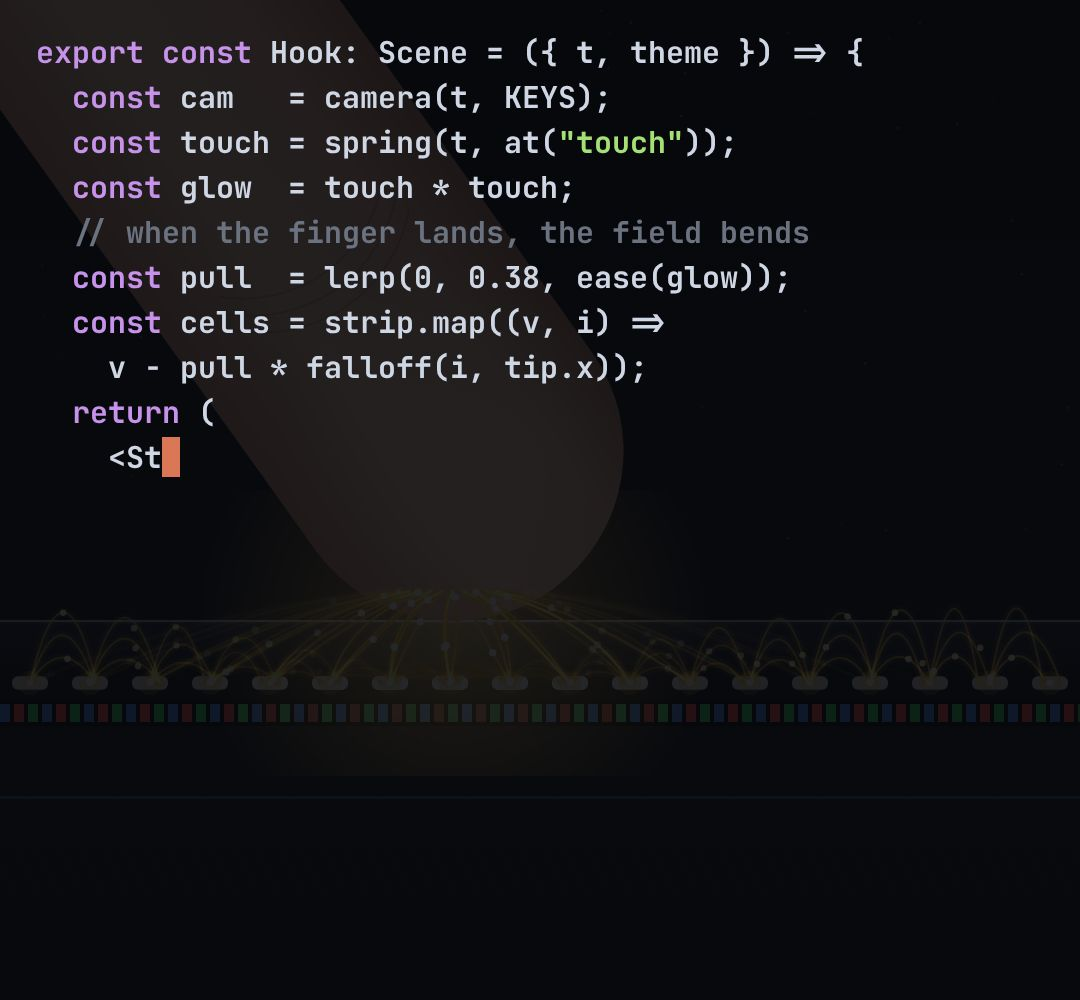
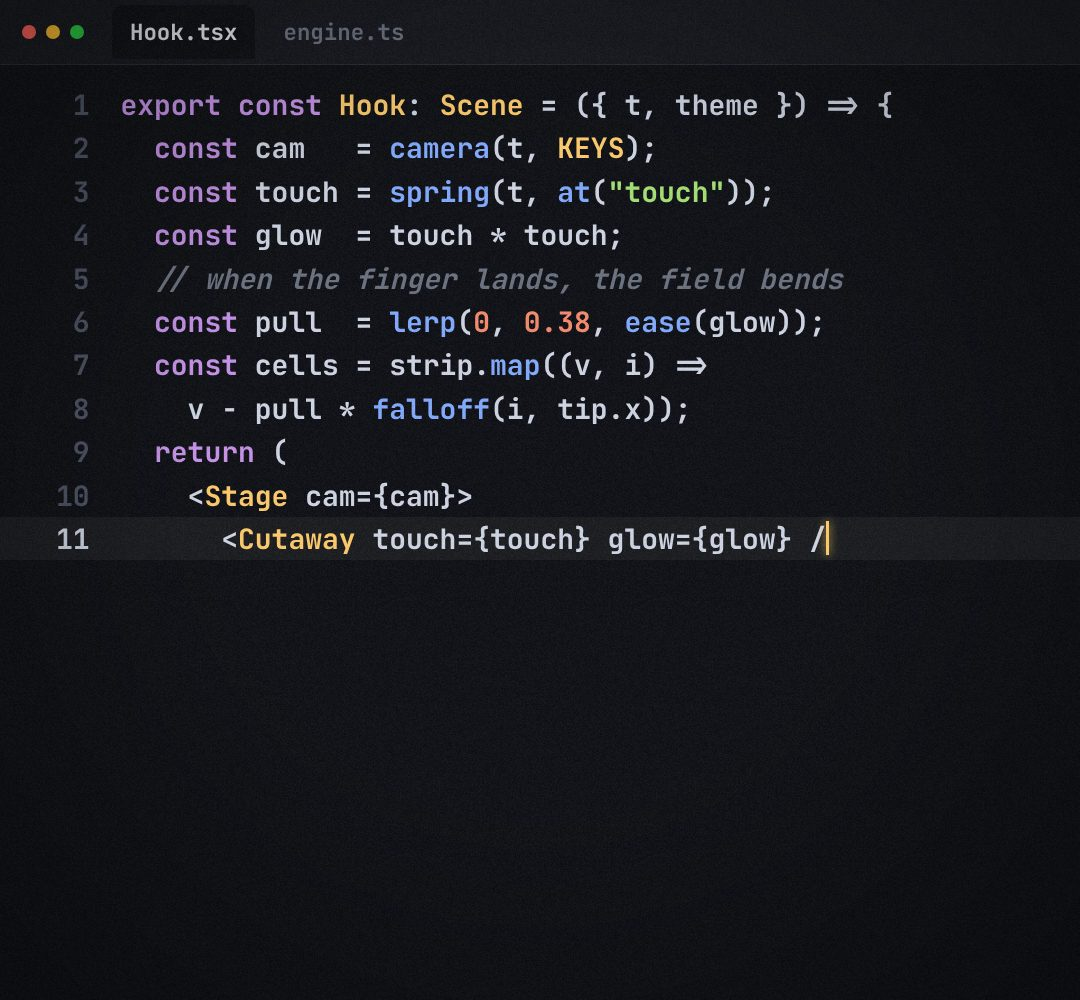
Keyframes group E advanced pass: editor code-reveal, anamorphic wipe, 3D turn, steel blades, real film strip, 3D clip stack
Claude-Session: https://claude.ai/code/session_01WnDKVy29mSHbKqgBAaKPCy

Changed region(s): [[0.0306, 0.0, 0.825, 0.558], [0.5806, 0.031, 0.7944, 0.062]]

diff --git a/.claude/skills/speedy-explainer-reel/keyframes/film-strip/block.js b/.claude/skills/speedy-explainer-reel/keyframes/film-strip/block.js
@@ -1,15 +1,23 @@
-/* film-strip: a long video shown as a strip of frames running under a playhead; the best moments light up with a score ("the AI picks the moments").
- * opts:  { n: frames, frame: [w, h], images: [urls] (optional), picks: [frame indexes], scores: [numbers], y }
- * state: { show: 0..1, scroll: 0..1 (how far the strip has run), lift: 0..1 (the picked frames rise out of the strip) } · api: frame(t, state) */
+/* film-strip: a long video as a real strip of film: dark celluloid with sprocket holes, frame numbers and grain, holding REAL frames (default: our own reel frames), curving away in perspective as it runs under a glowing playhead. The best moments get bracketed, light up with a score and lift out of the strip.
+ * opts:  { n: frames, images: [urls] (else frames from keyframes/_assets/frames.jpg), picks: [frame indexes], scores: [numbers], y, frame: [w, h] }
+ * state: { show: 0..1, scroll: 0..1 (how far the strip has run), lift: 0..1 (the picked frames rise out) } · api: frame(t, state) */
 KF.define("film-strip", (host, o) => {
-  const { ctx, w, h, clear } = KF.canvas(host), n = o.n || 16, fw = (o.frame || [300, 170])[0], fh = (o.frame || [300, 170])[1], gap = 16, y = o.y ?? h * 0.42, picks = o.picks || [3, 6, 9, 12], sc = o.scores || [92, 88, 95, 81];
-  const imgs = (o.images || []).map(u => { const im = new Image(); im.src = u; return im; }); if (imgs.length) window.__ready = Promise.all([window.__ready, ...imgs.map(im => im.decode().catch(() => {}))]);
-  const pal = ["#5b2a1c", "#1c3a5b", "#3a1c5b", "#1c5b3a", "#5b4a1c"];
+  const { ctx, w, h, clear } = KF.canvas(host), n = o.n || 26, fw = (o.frame || [250, 444])[0], fh = (o.frame || [250, 444])[1], gap = 26, y0 = o.y ?? h * 0.42, picks = o.picks || [5, 9, 13, 16], sc = o.scores || [92, 88, 95, 81];
+  const imgs = (o.images || []).map(KF.img), sheet = imgs.length ? null : KF.img(KF.asset("frames.jpg"));
+  const drawFrame = (i, x, y, ww, hh) => { if (imgs.length) { const im = imgs[i % imgs.length]; if (im.naturalWidth) ctx.drawImage(im, x, y, ww, hh); return; } if (!sheet.naturalWidth) return; const k = (i * 5 + 3) % 96, cw = sheet.naturalWidth / 12, ch = sheet.naturalHeight / 8; ctx.drawImage(sheet, (k % 12) * cw, Math.floor(k / 12) * ch, cw, ch, x, y, ww, hh); };
   return { frame(t, s = {}) { clear(); const a = KF.clamp(s.show ?? 1), scr = KF.ease.inOut(KF.clamp(s.scroll ?? 0)) * ((n - 1) * (fw + gap)), lift = KF.clamp(s.lift ?? 0), px = w / 2; ctx.globalAlpha = a;
-      ctx.fillStyle = "#101216"; ctx.fillRect(0, y - 34, w, fh + 68); ctx.fillStyle = "#2a2d35"; for (let x = -((scr * 1) % 40); x < w; x += 40) { KF.rr(ctx, x, y - 26, 22, 14, 4); ctx.fill(); KF.rr(ctx, x, y + fh + 12, 22, 14, 4); ctx.fill(); }
-      for (let i = 0; i < n; i++) { const x = px - fw / 2 + i * (fw + gap) - scr, k = picks.indexOf(i), hot = k >= 0 && x + fw / 2 <= px + 4; if (x > w || x + fw < 0) continue; const yy = y - (hot ? lift * (150 + 0 * k) : 0) - (hot ? 10 * Math.sin(Math.PI * KF.clamp((px - x - fw / 2) / 120)) : 0);
-        ctx.save(); KF.rr(ctx, x, yy, fw, fh, 10); ctx.clip(); const im = imgs.length ? imgs[i % imgs.length] : null; if (im && im.naturalWidth) ctx.drawImage(im, x, yy, fw, fh); else { const g = ctx.createLinearGradient(x, yy, x + fw, yy + fh); g.addColorStop(0, pal[i % 5]); g.addColorStop(1, "#0e0a0a"); ctx.fillStyle = g; ctx.fillRect(x, yy, fw, fh);
-          ctx.fillStyle = "#e8b48f"; ctx.beginPath(); ctx.arc(x + fw * (0.3 + 0.4 * KF.hash(i)), yy + fh * 0.45, 26, 0, 7); ctx.fill(); ctx.fillStyle = i % 2 ? "#5a7bd9" : "#D97757"; KF.rr(ctx, x + fw * (0.3 + 0.4 * KF.hash(i)) - 40, yy + fh * 0.62, 80, 80, 26); ctx.fill(); } ctx.restore();
-        if (hot) { ctx.strokeStyle = KF.C.accent; ctx.lineWidth = 6; ctx.shadowColor = KF.C.accent; ctx.shadowBlur = 30; KF.rr(ctx, x, yy, fw, fh, 10); ctx.stroke(); ctx.shadowBlur = 0; ctx.fillStyle = KF.C.accent; KF.rr(ctx, x + fw - 84, yy + 10, 74, 44, 22); ctx.fill(); ctx.fillStyle = "#1a0e08"; ctx.font = '700 28px "JetBrains Mono"'; ctx.textAlign = "center"; ctx.fillText(sc[k] ?? "", x + fw - 47, yy + 42); } }
-      ctx.strokeStyle = "#fff"; ctx.lineWidth = 5; ctx.shadowColor = "#fff"; ctx.shadowBlur = 18; ctx.beginPath(); ctx.moveTo(px, y - 70); ctx.lineTo(px, y + fh + 70); ctx.stroke(); ctx.shadowBlur = 0; ctx.fillStyle = "#fff"; ctx.beginPath(); ctx.moveTo(px - 16, y - 86); ctx.lineTo(px + 16, y - 86); ctx.lineTo(px, y - 62); ctx.fill(); ctx.globalAlpha = 1; } };
+      const items = []; for (let i = 0; i < n; i++) { const xc = px + i * (fw + gap) - scr, dx = (xc - px) / (w * 0.75), z = 1 + 0.55 * dx * dx, curveY = 70 * dx * dx; if (Math.abs(dx) > 1.6) continue; items.push({ i, xc, dx, s: 1 / z, cy: y0 + curveY }); }
+      items.sort((A, B) => B.dx * B.dx - A.dx * A.dx);
+      items.forEach(({ i, xc, dx, s: k, cy }) => { const k2 = picks.indexOf(i), hot = k2 >= 0 && xc <= px + 4, W2 = fw * k, H2 = fh * k, x = xc - W2 / 2, rise = hot ? lift * (190 + 20 * k2) * k : 0, y = cy - H2 / 2 - rise, blur = Math.min(6, Math.abs(dx) * 6);
+        ctx.save(); ctx.filter = blur > 0.5 ? `blur(${blur.toFixed(1)}px)` : "none"; ctx.fillStyle = "#14110d"; ctx.fillRect(x - gap * k / 2, cy - H2 / 2 - 44 * k, W2 + gap * k, H2 + 88 * k);
+        ctx.fillStyle = "#e8dcc4"; for (let sI = 0; sI < 4; sI++) { const hx = x + (sI + 0.5) * W2 / 4 - 9 * k; KF.rr(ctx, hx, cy - H2 / 2 - 32 * k, 18 * k, 22 * k, 4 * k); ctx.fill(); KF.rr(ctx, hx, cy + H2 / 2 + 10 * k, 18 * k, 22 * k, 4 * k); ctx.fill(); }
+        ctx.fillStyle = "rgba(240,180,90,.75)"; ctx.font = `700 ${Math.round(15 * k)}px "JetBrains Mono"`; ctx.textAlign = "left"; ctx.fillText(String(120 + i * 4).padStart(4, "0") + "  ▸", x, cy + H2 / 2 + 6 * k);
+        if (hot && lift > 0) { ctx.fillStyle = "#000"; ctx.globalAlpha = a * 0.55; KF.rr(ctx, x, cy - H2 / 2, W2, H2, 6); ctx.fill(); ctx.globalAlpha = a; ctx.shadowColor = "rgba(0,0,0,.7)"; ctx.shadowBlur = 40 * lift; ctx.shadowOffsetY = 24 * lift; }
+        ctx.save(); KF.rr(ctx, x, y, W2, H2, 6); ctx.clip(); ctx.fillStyle = "#000"; ctx.fillRect(x, y, W2, H2); ctx.shadowBlur = 0; drawFrame(i, x, y, W2, H2); ctx.fillStyle = "rgba(255,190,110,.07)"; ctx.fillRect(x, y, W2, H2); ctx.restore(); ctx.shadowBlur = 0; ctx.shadowOffsetY = 0;
+        if (hot) { const gl = 0.5 + 0.5 * Math.sin(t * 4); ctx.strokeStyle = KF.C.accent; ctx.lineWidth = 6; ctx.shadowColor = KF.C.accent; ctx.shadowBlur = 24 + 16 * gl; const br = 26 * k; [[x, y, 1, 1], [x + W2, y, -1, 1], [x, y + H2, 1, -1], [x + W2, y + H2, -1, -1]].forEach(([bx, by, sx, sy]) => { ctx.beginPath(); ctx.moveTo(bx + sx * br, by - sy * 6); ctx.lineTo(bx - sx * 6, by - sy * 6); ctx.lineTo(bx - sx * 6, by + sy * br); ctx.stroke(); }); ctx.shadowBlur = 0;
+          ctx.fillStyle = KF.C.accent; KF.rr(ctx, x + W2 - 92 * k, y + 12 * k, 80 * k, 48 * k, 24 * k); ctx.fill(); ctx.fillStyle = "#1a0e08"; ctx.font = `700 ${Math.round(30 * k)}px "JetBrains Mono"`; ctx.textAlign = "center"; ctx.fillText(sc[k2] ?? "", x + W2 - 52 * k, y + 46 * k); }
+        ctx.restore(); });
+      ctx.globalCompositeOperation = "lighter"; const pg = ctx.createLinearGradient(px - 60, 0, px + 60, 0); pg.addColorStop(0, "rgba(255,255,255,0)"); pg.addColorStop(0.5, "rgba(255,255,255,.22)"); pg.addColorStop(1, "rgba(255,255,255,0)"); ctx.fillStyle = pg; ctx.fillRect(px - 60, y0 - fh * 0.75, 120, fh * 1.5); ctx.globalCompositeOperation = "source-over";
+      ctx.strokeStyle = "#fff"; ctx.lineWidth = 5; ctx.shadowColor = "#fff"; ctx.shadowBlur = 20; ctx.beginPath(); ctx.moveTo(px, y0 - fh * 0.72); ctx.lineTo(px, y0 + fh * 0.72); ctx.stroke(); ctx.shadowBlur = 0; ctx.fillStyle = "#fff"; ctx.beginPath(); ctx.moveTo(px - 18, y0 - fh * 0.72 - 20); ctx.lineTo(px + 18, y0 - fh * 0.72 - 20); ctx.lineTo(px, y0 - fh * 0.72 + 6); ctx.fill();
+      const vg = ctx.createLinearGradient(0, 0, w, 0); vg.addColorStop(0, "rgba(8,9,12,.95)"); vg.addColorStop(0.16, "rgba(8,9,12,0)"); vg.addColorStop(0.84, "rgba(8,9,12,0)"); vg.addColorStop(1, "rgba(8,9,12,.95)"); ctx.fillStyle = vg; ctx.fillRect(0, 0, w, h); ctx.globalAlpha = 1; } };
 });

diff --git a/.claude/skills/speedy-explainer-reel/keyframes/code-reveal/block.js b/.claude/skills/speedy-explainer-reel/keyframes/code-reveal/block.js
@@ -1,13 +1,24 @@
-/* code-reveal: the picture dissolves into the code that draws it ("all of this was written by Claude"), then back.
- * opts:  { code: "…" (your real source; a sample is used when missing), size: font px, tint }
- * state: { p: 0..1 (0 = no code, 1 = full wall of code over a dark veil), type: 0..1 (how much of the code has been typed), scroll: px } · api: frame(t, state)
+/* code-reveal: the picture breaks into blocks that flip, one by one, into a real code editor showing the code that draws it ("all of this was written by Claude"); a glitch at the turn; then it can fold back.
+ * The editor has a title bar with tabs, line numbers, syntax colours, a current-line highlight and a blinking caret that types.
+ * opts:  { code: "…" (your real source; a sample is used when missing), file: "Hook.tsx", size: font px, cell: block size px }
+ * state: { p: 0..1 (0 = picture, 1 = editor fully over it), type: 0..1 (how much of the code has been typed), scroll: px } · api: frame(t, state)
  * Put this block's host ABOVE the scene it covers (same position and size). */
 KF.define("code-reveal", (host, o) => {
   const code = o.code || `export const Hook: Scene = ({ t, theme }) => {\n  const cam   = camera(t, KEYS);\n  const touch = spring(t, at("touch"));\n  const glow  = touch * touch;\n  // when the finger lands, the field bends\n  const pull  = lerp(0, 0.38, ease(glow));\n  const cells = strip.map((v, i) =>\n    v - pull * falloff(i, tip.x));\n  return (\n    <Stage cam={cam}>\n      <Cutaway touch={touch} glow={glow} />\n      <FieldArcs sink={tip} k={pull} />\n      <ValueStrip values={cells} />\n      <Labels at={["GLASS", "WIRES"]} />\n    </Stage>\n  );\n};`;
-  const v = KF.el("div", "", host), pre = KF.el("pre", "", host); v.style.cssText = "position:absolute;inset:0;background:#07080b"; pre.dataset.qa = "texture";
-  pre.style.cssText = `position:absolute;left:36px;top:30px;right:20px;margin:0;font:700 ${o.size || 30}px/1.5 "JetBrains Mono",monospace;color:#cfd6e4;white-space:pre;overflow:hidden`;
-  const esc = x => x.replace(/&/g, "&amp;").replace(/</g, "&lt;"), KW = /^(export|const|return|import|from|function|let|if|else)$/;
-  const paint = src => src.replace(/(\/\/[^\n]*)|("[^"\n]*")|([A-Za-z_]\w*)|([\s\S])/g, (m, com, str, word, other) => com ? `<i style="color:#6b7280;font-style:normal">${esc(com)}</i>` : str ? `<u style="color:#a5e075;text-decoration:none">${esc(str)}</u>` : word ? (KW.test(word) ? `<b style="color:#c792ea">${word}</b>` : word) : esc(other));
-  return { frame(t, s = {}) { const p = KF.clamp(s.p ?? 0), ty = KF.clamp(s.type ?? 1), n = Math.round(ty * code.length); v.style.opacity = 0.88 * p; pre.style.opacity = p; pre.style.transform = `translateY(${(-(s.scroll || 0) + (1 - p) * 30).toFixed(1)}px) scale(${(1 + 0.06 * (1 - p)).toFixed(4)})`;
-      pre.style.filter = `blur(${((1 - p) * 8).toFixed(1)}px)`; const html = paint(code.slice(0, n)) + (ty < 1 ? '<span style="background:#D97757">&nbsp;</span>' : ""); if (pre.dataset.n !== String(n)) { pre.innerHTML = html; pre.dataset.n = n; } } };
+  const W = host.clientWidth, Hh = host.clientHeight, cs = o.cell || 54, fs = o.size || 28, cv = KF.canvas(host), ed = KF.el("div", "", host); ed.dataset.qa = "texture";
+  ed.style.cssText = `position:absolute;inset:0;font:600 ${fs}px/1.55 "JetBrains Mono",monospace;color:#cfd6e4;overflow:hidden`;
+  ed.innerHTML = `<div style="height:64px;display:flex;align-items:center;gap:10px;padding:0 22px;background:#16181e;border-bottom:1px solid #262a33"><i style="width:14px;height:14px;border-radius:50%;background:#ff5f57"></i><i style="width:14px;height:14px;border-radius:50%;background:#febc2e"></i><i style="width:14px;height:14px;border-radius:50%;background:#28c840;margin-right:18px"></i>
+<span style="padding:10px 18px;border-radius:10px 10px 0 0;background:#0d0f14;color:#e6e9ef;font-size:${fs * 0.8}px">${o.file || "Hook.tsx"}</span><span style="padding:10px 18px;color:#6b7280;font-size:${fs * 0.8}px">engine.ts</span></div><div class="bd" style="position:relative;padding:18px 0"></div>`;
+  const bd = ed.querySelector(".bd"), esc = x => x.replace(/&/g, "&amp;").replace(/</g, "&lt;"), KW = /^(export|const|return|import|from|function|let|if|else|new|await|async)$/;
+  const paint = src => src.replace(/(\/\/[^\n]*)|("[^"\n]*")|(\b\d+(?:\.\d+)?\b)|([A-Za-z_]\w*)(?=\()|([A-Z]\w*)|([A-Za-z_]\w*)|([\s\S])/g, (m, com, str, num, fn, typ, word, other) => com ? `<i style="color:#6b7280;font-style:italic">${esc(com)}</i>` : str ? `<u style="color:#a5e075;text-decoration:none">${esc(str)}</u>` : num ? `<b style="color:#f78c6c;font-weight:600">${num}</b>` : fn ? `<b style="color:#82aaff;font-weight:600">${fn}</b>` : typ ? `<b style="color:#ffcb6b;font-weight:600">${typ}</b>` : word ? (KW.test(word) ? `<b style="color:#c792ea">${word}</b>` : word) : esc(other));
+  const order = []; for (let j = 0; j < Math.ceil(Hh / cs); j++) for (let i = 0; i < Math.ceil(W / cs); i++) order.push({ i, j, r: KF.hash(i * 7.3 + j * 13.1) * 0.75 + (i / Math.ceil(W / cs)) * 0.25 });
+  return { frame(t, s = {}) { const p = KF.clamp(s.p ?? 0), ty = KF.clamp(s.type ?? 1), n = Math.round(ty * code.length), c = cv.ctx; cv.clear();
+      // blocks: each flips to editor-dark when its random threshold is passed; the edge cells glow
+      order.forEach(b => { const q = KF.clamp((p - b.r * 0.85) / 0.15); if (q <= 0) return; const x = b.i * cs, y = b.j * cs, sx = Math.abs(Math.cos(Math.PI * Math.min(1, q) * 0.5 + (q < 1 ? 0 : Math.PI / 2))), k = q < 1 ? 1 - q : 0;
+        c.fillStyle = "#0d0f14"; const ww = cs * (q < 1 ? Math.max(0.1, q) : 1); c.fillRect(x + (cs - ww) / 2, y, ww, cs + 0.5); if (k > 0) { c.fillStyle = KF.rgba("#7fd0ff", 0.55 * k); c.fillRect(x + (cs - ww) / 2, y, ww, cs); } });
+      const g = Math.sin(Math.PI * KF.clamp((p - 0.35) / 0.4)), lines = code.slice(0, n).split("\n"), cur = lines.length - 1;
+      ed.style.opacity = KF.clamp((p - 0.5) * 2.2); ed.style.transform = g > 0.05 ? `translateX(${(g * 6 * KF.noise(t * 40)).toFixed(1)}px)` : "none"; ed.style.textShadow = g > 0.05 ? `${(g * 4).toFixed(1)}px 0 rgba(255,60,90,.55),${(-g * 4).toFixed(1)}px 0 rgba(60,200,255,.55)` : "none";
+      const key = n + ":" + Math.floor(t * 2.5) % 2; if (bd.dataset.k !== key) { bd.dataset.k = key; const caret = Math.floor(t * 2.5) % 2 === 0 || ty < 1 ? `<span style="display:inline-block;width:3px;height:1.2em;background:#ffcc66;vertical-align:-0.2em;box-shadow:0 0 10px #ffcc66"></span>` : "";
+        bd.innerHTML = lines.map((L, i) => `<div style="display:flex;${i === cur ? "background:rgba(255,255,255,.05);" : ""}"><span style="width:3.2em;text-align:right;padding-right:1.1em;color:${i === cur ? "#cfd6e4" : "#4b5263"};flex:none">${i + 1}</span><span style="white-space:pre">${paint(L)}${i === cur ? caret : ""}</span></div>`).join(""); }
+      bd.style.transform = `translateY(${(-(s.scroll || 0)).toFixed(1)}px)`; } };
 });

diff --git a/.claude/skills/speedy-explainer-reel/keyframes/blade-cut/block.js b/.claude/skills/speedy-explainer-reel/keyframes/blade-cut/block.js
@@ -1,12 +1,18 @@
-/* blade-cut: two glowing blades slice a wide picture; the sides fall away and the middle becomes a vertical clip ("it cuts them into Shorts", crop, trim).
- * opts:  { w, h (the wide picture), keep: 0..1 share of the width that stays (default 9:16 of the height), bg: css background for the picture (image url or gradient), top }
- * state: { show: 0..1, cut: 0..1 (blades come down), fall: seconds since the sides let go (0 = still attached), grow: 0..1 (the kept piece scales up) } · api: frame(t, state) · center → the kept piece's element (paint frames or add captions inside it) */
+/* blade-cut: two steel blades slash down through a wide shot (with motion trails and sparks where they bite), a flash, the side pieces tip over and fall away in 3D with shadows, and the middle rises as a vertical clip with a white rim and glow ("it cuts them into Shorts", crop, trim).
+ * opts:  { w, h (the wide picture), keep: 0..1 share of the width that stays (default 9:16 of the height), bg: css background (image url or gradient), top }
+ * state: { show: 0..1, cut: 0..1 (blades come down), fall: seconds since the sides let go (0 = still attached), grow: 0..1 (the kept piece rises and scales up) } · api: frame(t, state) · center → the kept piece's element (paint frames or add captions inside it) */
 KF.define("blade-cut", (host, o) => {
   const w = o.w || 900, h = o.h || 506, kw = Math.round((o.keep ?? (h * 9 / 16) / w) * w), sw = (w - kw) / 2, left = (host.clientWidth - w) / 2, top = o.top ?? 220, bg = o.bg || "linear-gradient(120deg,#5b2a1c,#D97757 45%,#1c3a5b)";
-  const mk = (x, ww) => { const e = KF.el("div", "", host); e.style.cssText = `position:absolute;left:${left + x}px;top:${top}px;width:${ww}px;height:${h}px;background:${bg};background-size:${w}px ${h}px;background-position:${-x}px 0;overflow:hidden`; return e; };
-  const P = [mk(0, sw), mk(sw, kw), mk(sw + kw, sw)], B = [0, 1].map(i => { const b = KF.el("div", "", host); b.style.cssText = `position:absolute;left:${left + sw + i * kw - 5}px;top:${top - 30}px;width:10px;height:${h + 60}px;border-radius:5px;background:#fff;box-shadow:0 0 24px #fff,0 0 70px ${KF.C.accent};transform-origin:50% 0`; return b; });
-  return { center: P[1], frame(t, s = {}) { const a = KF.clamp(s.show ?? 1), cut = KF.clamp(s.cut ?? 0), f = Math.max(0, s.fall ?? 0), g = KF.ease.back(KF.clamp(s.grow ?? 0));
-      B.forEach((b, i) => { const q = KF.ease.out(KF.clamp(cut * 1.6 - i * 0.6)); b.style.transform = `scaleY(${q.toFixed(3)})`; b.style.opacity = f > 0 ? Math.max(0, 1 - f * 4) : q > 0 ? 1 : 0; });
-      P.forEach((e, i) => { const d = i === 0 ? -1 : 1; e.style.opacity = i === 1 ? a : a * Math.max(0, 1 - f * 1.3); e.style.transform = i === 1 ? `scale(${(1 + 0.32 * g).toFixed(4)})` : `translate(${(d * 300 * f).toFixed(1)}px,${(1500 * f * f).toFixed(1)}px) rotate(${(d * 70 * f).toFixed(1)}deg)`;
-        if (i === 1) { e.style.borderRadius = (22 * g).toFixed(1) + "px"; e.style.boxShadow = g > 0 ? `0 0 0 ${(5 * g).toFixed(1)}px #fff` : "none"; e.style.zIndex = 3; } }); } };
+  host.style.perspective = "1800px"; const fx = KF.canvas(host); fx.cv.style.zIndex = 6;
+  const mk = (x, ww) => { const e = KF.el("div", "", host); e.style.cssText = `position:absolute;left:${left + x}px;top:${top}px;width:${ww}px;height:${h}px;background:${bg};background-size:${w}px ${h}px;background-position:${-x}px 0;overflow:hidden;transform-origin:${x === 0 ? "100% 100%" : "0% 100%"};box-shadow:0 30px 60px -20px rgba(0,0,0,.7)`; return e; };
+  const P = [mk(0, sw), mk(sw, kw), mk(sw + kw, sw)]; P[1].style.transformOrigin = "50% 50%";
+  const blade = i => { const b = KF.el("div", "", host); b.style.cssText = `position:absolute;left:${left + sw + i * kw - 9}px;top:${top - 120}px;width:18px;height:${h + 240}px;z-index:5;transform-origin:50% 0;pointer-events:none`;
+    b.innerHTML = `<i style="position:absolute;left:0;right:0;top:0;bottom:0;border-radius:9px;background:linear-gradient(90deg,#6b7382,#f4f6fa 45%,#ffffff 50%,#8f98a8 100%);box-shadow:0 0 18px rgba(255,255,255,.9),0 0 60px rgba(217,119,87,.8)"></i><b style="position:absolute;left:-30px;right:-30px;top:-200px;height:200px;background:linear-gradient(rgba(255,255,255,0),rgba(255,255,255,.35));filter:blur(8px)"></b>`; return b; };
+  const B = [blade(0), blade(1)];
+  return { center: P[1], frame(t, s = {}) { const a = KF.clamp(s.show ?? 1), cut = KF.clamp(s.cut ?? 0), f = Math.max(0, s.fall ?? 0), g = KF.clamp(s.grow ?? 0), c = fx.ctx; fx.clear();
+      B.forEach((b, i) => { const q = KF.ease.in(KF.clamp(cut * 1.7 - i * 0.7)), y = -(h + 240) * (1 - q), gone = f > 0 ? Math.min(1, f * 3) : 0; b.style.transform = `translateY(${(y - gone * 200).toFixed(1)}px)`; b.style.opacity = q > 0 ? 1 - gone : 0; b.lastChild.style.opacity = q > 0 && q < 1 ? 1 : 0;
+        const tipY = top - 120 + (h + 240) + y; if (q > 0.05 && q < 1 && tipY > top && tipY < top + h + 20) KF.sparks(c, t, t - 0.08, left + sw + i * kw, tipY - 20, { n: 8, color: "#ffd8a8", speed: 420, life: 0.3, size: 4, spread: [Math.PI * 0.9, Math.PI * 2.1], seed: Math.floor(t * 30) + i * 7 }); });
+      P.forEach((e, i) => { const dsd = i === 0 ? -1 : 1; if (i === 1) { const y = KF.keys(g, [[0, 0], [0.6, -60, "out"], [1, -36, "inOut"]]), sc = 1 + 0.34 * KF.ease.back(g); e.style.opacity = a; e.style.transform = `translateY(${y.toFixed(1)}px) scale(${sc.toFixed(4)})`; e.style.borderRadius = (24 * g).toFixed(1) + "px"; e.style.boxShadow = g > 0 ? `0 0 0 ${(6 * g).toFixed(1)}px #fff,0 0 ${(80 * g).toFixed(0)}px rgba(255,255,255,${(0.35 * g).toFixed(2)}),0 50px 90px -20px rgba(0,0,0,.85)` : "0 30px 60px -20px rgba(0,0,0,.7)"; e.style.zIndex = 4; return; }
+        const tip = KF.keys(f, [[0, 0], [0.18, 14, "out"], [0.7, 88, "in"]]), drop = 1600 * Math.max(0, f - 0.25) ** 2, slide = dsd * 120 * f; e.style.opacity = a * Math.max(0, 1 - Math.max(0, f - 0.5) * 2); e.style.transform = `translate(${slide.toFixed(1)}px,${drop.toFixed(1)}px) rotateZ(${(dsd * tip * 0.35).toFixed(2)}deg) rotateY(${(-dsd * tip).toFixed(2)}deg)`; e.style.filter = `brightness(${(1 - 0.5 * KF.clamp(tip / 88)).toFixed(2)})`; });
+      if (cut >= 0.98 && f < 0.15) { c.fillStyle = `rgba(255,255,255,${(0.5 * (1 - f / 0.15)).toFixed(3)})`; c.fillRect(0, 0, host.clientWidth, host.clientHeight); } } };
 });

diff --git a/.claude/skills/speedy-explainer-reel/keyframes/clip-stack/block.js b/.claude/skills/speedy-explainer-reel/keyframes/clip-stack/block.js
@@ -1,11 +1,18 @@
-/* clip-stack: vertical clips fan out in an arc, then drop onto one stack ("a whole stack of Shorts from one video", outputs piling up).
- * opts:  { n: cards, card: [w, h], captions: [..], images: [urls], top }
+/* clip-stack: real vertical clips fly in and fan out in a 3D arc (each card has thickness, a shadow and a glass glint), then collapse onto one neat pile with a bounce ("a whole stack of Shorts from one video", outputs piling up).
+ * opts:  { n: cards, card: [w, h], captions: [..] (HTML; real words only), images: [urls] (default: our own reel covers), top }
  * state: { fan: 0..1 (cards fly in and fan out), stack: 0..1 (they collapse onto one pile) } · api: frame(t, state) · cards → the card elements */
 KF.define("clip-stack", (host, o) => {
-  const n = o.n || 5, cw = (o.card || [250, 444])[0], ch = (o.card || [250, 444])[1], cx = host.clientWidth / 2, top = o.top ?? 200, pal = [["#D97757", "#5b2a1c"], ["#4b8bff", "#172a52"], ["#a78bfa", "#2b1d52"], ["#3ECF8E", "#0f3a28"], ["#F2C14E", "#4d3a0c"]];
-  const cards = Array.from({ length: n }, (_, i) => { const e = KF.el("div", "", host), p = pal[i % 5]; e.dataset.qa = "texture"; e.style.cssText = `position:absolute;left:${cx - cw / 2}px;top:${top}px;width:${cw}px;height:${ch}px;border-radius:26px;overflow:hidden;background:${(o.images || [])[i] ? `url(${o.images[i]}) center/cover` : `linear-gradient(160deg,${p[0]},${p[1]})`};box-shadow:0 0 0 4px #fff,0 30px 60px -20px rgba(0,0,0,.7);font-family:Inter`;
-    e.innerHTML = `<span style="position:absolute;left:12px;top:12px;padding:6px 14px;border-radius:999px;background:rgba(0,0,0,.6);color:#fff;font:700 24px 'JetBrains Mono',monospace">#${i + 1}</span><div style="position:absolute;left:12px;right:12px;bottom:26px;text-align:center;font:900 30px/1.1 Inter;color:#fff;text-shadow:0 3px 0 #000">${(o.captions || [])[i] || ""}</div>`; return e; });
-  return { cards, frame(t, s = {}) { const f = KF.clamp(s.fan ?? 0), st = KF.ease.inOut(KF.clamp(s.stack ?? 0)); cards.forEach((e, i) => { const k = i - (n - 1) / 2, q = KF.spring(f, i * 0.08, { f: 1.6, z: 0.62 }), on = f > i * 0.08;
-        const x = KF.lerp(k * 900, k * 200, q), y = KF.lerp(k % 2 ? 500 : -500, Math.abs(k) * 36, q), r = KF.lerp(k * 40, k * 9, q), sc = KF.lerp(0.6, 1 - Math.abs(k) * 0.07, q);
-        e.style.opacity = on ? 1 : 0; e.style.zIndex = st > 0.5 ? i + 1 : 10 - Math.abs(Math.round(k * 2)); e.style.transform = `translate(${KF.lerp(x, k * 10, st).toFixed(1)}px,${KF.lerp(y, -i * 8, st).toFixed(1)}px) rotate(${KF.lerp(r, k * 3, st).toFixed(2)}deg) scale(${KF.lerp(sc, 1, st).toFixed(4)})`; }); } };
+  const n = o.n || 5, cw = (o.card || [260, 462])[0], ch = (o.card || [260, 462])[1], cx = host.clientWidth / 2, top = o.top ?? 180, imgs = o.images || KF.covers().slice(0, n); host.style.perspective = "1600px";
+  const wrap = KF.el("div", "", host); wrap.style.cssText = "position:absolute;inset:0;transform-style:preserve-3d";
+  const cards = Array.from({ length: n }, (_, i) => { const e = KF.el("div", "", wrap); e.dataset.qa = "texture"; e.style.cssText = `position:absolute;left:${cx - cw / 2}px;top:${top}px;width:${cw}px;height:${ch}px;transform-style:preserve-3d`;
+    e.innerHTML = `<i style="position:absolute;inset:0;border-radius:26px;background:#0b0c0f;transform:translateZ(-8px);box-shadow:0 40px 70px -24px rgba(0,0,0,.85)"></i><div style="position:absolute;inset:0;border-radius:26px;overflow:hidden;background:#15171c url(${imgs[i % imgs.length]}) center/cover;box-shadow:inset 0 0 0 3px rgba(255,255,255,.85)">
+<b class="gl" style="position:absolute;top:-30%;bottom:-30%;width:40%;left:-60%;background:linear-gradient(100deg,rgba(255,255,255,0),rgba(255,255,255,.38),rgba(255,255,255,0));transform:skewX(-16deg)"></b><span style="position:absolute;left:12px;top:12px;padding:6px 14px;border-radius:999px;background:rgba(0,0,0,.6);color:#fff;font:700 24px 'JetBrains Mono',monospace">#${i + 1}</span>
+${(o.captions || [])[i] ? `<div style="position:absolute;left:0;right:0;bottom:0;padding:80px 14px 26px;text-align:center;font:900 30px/1.1 Inter;color:#fff;text-shadow:0 3px 0 #000;background:linear-gradient(rgba(0,0,0,0),rgba(0,0,0,.75))">${o.captions[i]}</div>` : ""}</div>`; return e; });
+  return { cards, frame(t, s = {}) { const f = KF.clamp(s.fan ?? 0), st = KF.clamp(s.stack ?? 0); cards.forEach((e, i) => { const k = i - (n - 1) / 2, d = f - i * 0.08, q = KF.spring(d, 0, { f: 1.5, z: 0.6 }), on = d > 0;
+        const ax = k * 210, ay = Math.abs(k) * 40, az = -Math.abs(k) * 120, ary = -k * 16, arz = k * 5;
+        const fx = KF.lerp(k * 1100, ax, q), fy = KF.lerp(-700 - i * 80, ay, q), fz = KF.lerp(600, az, q), fry = KF.lerp(-k * 70, ary, q), frx = KF.lerp(60, 0, q), frz = KF.lerp(k * 40, arz, q);
+        const sq = KF.keys(st, [[0, 0], [0.75, 1, "inOut"], [0.86, 1.04, "out"], [1, 1, "inOut"]]), drop = KF.ease.inOut(KF.clamp(st * 1.33 - i * 0.07));
+        e.style.opacity = on ? 1 : 0; e.style.zIndex = st > 0.4 ? i + 1 : 10 - Math.abs(Math.round(k * 2));
+        e.style.transform = `translate3d(${KF.lerp(fx, k * 6, drop).toFixed(1)}px,${KF.lerp(fy, -i * 10, drop).toFixed(1)}px,${KF.lerp(fz, i * 6, drop).toFixed(1)}px) rotateX(${KF.lerp(frx, 8, drop).toFixed(2)}deg) rotateY(${KF.lerp(fry, 0, drop).toFixed(2)}deg) rotateZ(${KF.lerp(frz, k * 2.2, drop).toFixed(2)}deg) scale(${(st > 0.75 ? KF.lerp(1, 1.0, 1) * (sq > 1 ? 2 - sq : 1) : 1).toFixed(4)})`;
+        e.querySelector(".gl").style.left = (-60 + 200 * (((t * 0.25) + i * 0.17) % 1.6)) + "%"; }); } };
 });

diff --git a/.claude/skills/speedy-explainer-reel/keyframes/light-wipe/block.js b/.claude/skills/speedy-explainer-reel/keyframes/light-wipe/block.js
@@ -1,11 +1,23 @@
-/* light-wipe: a glowing bar that sweeps across the picture to change scenes.
- * opts:  { color, dir: "x"|"y", width: bar px }
- * state: { p: 0..1 (bar position), cover: colour that fills the side the bar has passed (use the next scene's background), alpha } · api: frame(t, state) · edge(p) → bar position in px (clip the new scene to it)
- * Put its host above both scenes. To reveal scene B: set B's clip-path to inset(0 calc(100% - edge px) 0 0). */
+/* light-wipe: an anamorphic light streak crosses the picture to change scenes: a bright core line, a wide horizontal lens streak, flare ghosts, colour fringing at the edge and sparkles left in its wake.
+ * opts:  { color: tint of the streak, dir: "x"|"y", angle: degrees of tilt (default 8), width: core px }
+ * state: { p: 0..1 (bar position), cover: colour that fills the side the bar has passed (use the next scene's background) } · api: frame(t, state) · edge(p) → bar position in px (clip the new scene to it: clip-path inset(0 calc(100% - edge px) 0 0))
+ * Put its host above both scenes. */
 KF.define("light-wipe", (host, o) => {
-  const { ctx, w, h, clear } = KF.canvas(host), col = o.color || "#7fd0ff", ver = o.dir === "y", L = ver ? h : w, bw = o.width || 14;
-  return { edge: p => KF.ease.inOut(KF.clamp(p)) * (L + 200) - 100, frame(t, s = {}) { clear(); const p = KF.clamp(s.p ?? 0); if (p <= 0 || p >= 1) return; const e = KF.ease.inOut(p) * (L + 200) - 100;
+  const { ctx, w, h, clear } = KF.canvas(host), col = o.color || "#9ad8ff", ver = o.dir === "y", L = ver ? h : w, bw = o.width || 10, ang = (o.angle ?? 8) * Math.PI / 180;
+  const edge = p => KF.ease.inOut(KF.clamp(p)) * (L + 400) - 200;
+  return { edge, frame(t, s = {}) { clear(); const p = KF.clamp(s.p ?? 0); if (p <= 0 || p >= 1) return; const e = edge(p), speed = Math.sin(Math.PI * p), cx = ver ? w / 2 : e, cy = ver ? e : h * 0.45;
       if (s.cover) { ctx.fillStyle = s.cover; ver ? ctx.fillRect(0, 0, w, e) : ctx.fillRect(0, 0, e, h); }
-      ctx.globalCompositeOperation = "lighter"; const g = ver ? ctx.createLinearGradient(0, e - 220, 0, e + 220) : ctx.createLinearGradient(e - 220, 0, e + 220, 0); g.addColorStop(0, KF.rgba(col, 0)); g.addColorStop(0.5, KF.rgba(col, 0.55)); g.addColorStop(1, KF.rgba(col, 0));
-      ctx.fillStyle = g; ver ? ctx.fillRect(0, e - 220, w, 440) : ctx.fillRect(e - 220, 0, 440, h); ctx.fillStyle = "#fff"; ver ? ctx.fillRect(0, e - bw / 2, w, bw) : ctx.fillRect(e - bw / 2, 0, bw, h); ctx.globalCompositeOperation = "source-over"; } };
+      ctx.save(); ctx.translate(cx, cy); ctx.rotate(ver ? Math.PI / 2 + ang : ang); ctx.globalCompositeOperation = "lighter";
+      // wide soft glow, then the motion smear behind the bar, then the core
+      let g = ctx.createLinearGradient(-320, 0, 320, 0); g.addColorStop(0, KF.rgba(col, 0)); g.addColorStop(0.5, KF.rgba(col, 0.45)); g.addColorStop(1, KF.rgba(col, 0)); ctx.fillStyle = g; ctx.fillRect(-320, -h * 1.2, 640, h * 2.4);
+      g = ctx.createLinearGradient(-500 * speed, 0, 0, 0); g.addColorStop(0, KF.rgba(col, 0)); g.addColorStop(1, KF.rgba(col, 0.35)); ctx.fillStyle = g; ctx.fillRect(-500 * speed, -h * 1.2, 500 * speed, h * 2.4);
+      ctx.fillStyle = KF.rgba("#ff4f7a", 0.5); ctx.fillRect(-bw * 1.6 - 6, -h * 1.2, bw, h * 2.4); ctx.fillStyle = KF.rgba("#4fd6ff", 0.5); ctx.fillRect(bw * 0.6 + 6, -h * 1.2, bw, h * 2.4); ctx.fillStyle = "#fff"; ctx.fillRect(-bw / 2, -h * 1.2, bw, h * 2.4);
+      ctx.restore(); ctx.save(); ctx.globalCompositeOperation = "lighter";
+      // anamorphic streak through the hot spot + flare ghosts on the opposite side of centre
+      const hs = ver ? [w * 0.5, e] : [e, h * 0.4]; g = ctx.createLinearGradient(0, hs[1], w, hs[1]); g.addColorStop(0, KF.rgba(col, 0)); g.addColorStop(KF.clamp(hs[0] / w), KF.rgba("#ffffff", 0.9)); g.addColorStop(1, KF.rgba(col, 0)); ctx.fillStyle = g; ctx.fillRect(0, hs[1] - 3, w, 6); ctx.fillStyle = KF.rgba(col, 0.25); ctx.fillRect(0, hs[1] - 14, w, 28);
+      const rg = ctx.createRadialGradient(hs[0], hs[1], 0, hs[0], hs[1], 160); rg.addColorStop(0, "rgba(255,255,255,.95)"); rg.addColorStop(0.2, KF.rgba(col, 0.6)); rg.addColorStop(1, KF.rgba(col, 0)); ctx.fillStyle = rg; ctx.fillRect(hs[0] - 160, hs[1] - 160, 320, 320);
+      [[0.4, 46, "#7fd0ff"], [0.75, 24, "#ffd166"], [1.15, 70, "#a78bfa"], [1.5, 16, "#ffffff"]].forEach(([k, r, c2]) => { const fx = w / 2 + (w / 2 - hs[0]) * k, fy = h / 2 + (h / 2 - hs[1]) * k, rg2 = ctx.createRadialGradient(fx, fy, 0, fx, fy, r); rg2.addColorStop(0, KF.rgba(c2, 0.28 * speed)); rg2.addColorStop(0.7, KF.rgba(c2, 0.12 * speed)); rg2.addColorStop(1, KF.rgba(c2, 0)); ctx.fillStyle = rg2; ctx.beginPath(); ctx.arc(fx, fy, r, 0, 7); ctx.fill(); });
+      for (let i = 0; i < 40; i++) { const lag = KF.hash(i) * 0.25, q = KF.clamp((p - lag) / (1 - lag)); if (q <= 0) continue; const se = edge(q) - 60 * KF.hash(i + 2), y = KF.hash(i * 3.7) * h, life = KF.clamp(1 - (p - lag) * 4), x = ver ? KF.hash(i * 3.7) * w : se, yy = ver ? se : y;
+        if (life <= 0) continue; ctx.fillStyle = KF.rgba("#ffffff", 0.8 * life); ctx.beginPath(); ctx.arc(x, yy, 1.5 + 2.5 * KF.hash(i + 9), 0, 7); ctx.fill(); }
+      ctx.restore(); } };
 });

diff --git a/.claude/skills/speedy-explainer-reel/keyframes/stage-flip/block.js b/.claude/skills/speedy-explainer-reel/keyframes/stage-flip/block.js
@@ -1,9 +1,18 @@
-/* stage-flip: the background flips between dark and light as a circle growing from a point (marks a new chapter; light = real screens, dark = diagrams).
- * opts:  { light: colour, dark: colour, origin: [x, y] in host px }
- * state: { p: 0..1 (0 = dark, 1 = light), origin } · api: frame(t, state) · isLight(state) → true once most of the stage is light (switch your text colours on it)
+/* stage-flip: the background changes between dark and light to mark a new chapter (light = real screens, dark = diagrams).
+ * mode "circle" (default): the light grows from a point as a circle with a soft glowing rim and a ripple ring.
+ * mode "turn": the whole stage turns over on its vertical axis like a card, with depth shading; your content hosts can follow with `turn(state)`.
+ * opts:  { light: colour, dark: colour, origin: [x, y] in host px, mode: "circle"|"turn" }
+ * state: { p: 0..1 (0 = dark, 1 = light), origin } · api: frame(t, state) · isLight(state) → true once most of the stage is light · turn(state) → CSS transform for content during a "turn"
  * Put its host BEHIND your content (first child of the stage). */
 KF.define("stage-flip", (host, o) => {
-  const d = KF.el("div", "", host), l = KF.el("div", "", host); d.style.cssText = `position:absolute;inset:0;background:${o.dark || "#0c0c0f"}`; l.style.cssText = `position:absolute;inset:0;background:${o.light || "#F6F4EF"}`;
-  const R = Math.hypot(host.clientWidth, host.clientHeight);
-  return { isLight: (s = {}) => (s.p ?? 0) > 0.5, frame(t, s = {}) { const p = KF.ease.inOut(KF.clamp(s.p ?? 0)), og = s.origin || o.origin || [host.clientWidth / 2, host.clientHeight * 0.4]; l.style.clipPath = `circle(${(p * R).toFixed(1)}px at ${og[0]}px ${og[1]}px)`; } };
+  const W = host.clientWidth, H = host.clientHeight, R = Math.hypot(W, H), d = KF.el("div", "", host), l = KF.el("div", "", host), fx = KF.canvas(host), mode = o.mode || "circle", LC = o.light || "#F6F4EF", DC = o.dark || "#0c0c0f";
+  d.style.cssText = `position:absolute;inset:0;background:radial-gradient(120% 80% at 50% 30%,#171a22,${DC} 70%)`; l.style.cssText = `position:absolute;inset:0;background:radial-gradient(120% 80% at 50% 30%,#ffffff,${LC} 70%)`;
+  host.style.perspective = "2400px";
+  return { isLight: (s = {}) => (s.p ?? 0) > 0.5, turn: (s = {}) => { const p = KF.ease.inOut(KF.clamp(s.p ?? 0)), a = p * 180; return `rotateY(${(a > 90 ? a - 180 : a).toFixed(2)}deg) scale(${(1 - 0.12 * Math.sin(Math.PI * p)).toFixed(4)})`; },
+    frame(t, s = {}) { const p = KF.clamp(s.p ?? 0), e = KF.ease.inOut(p), og = s.origin || o.origin || [W / 2, H * 0.4]; fx.clear();
+      if (mode === "turn") { const a = e * 180, face = a > 90, sc = 1 - 0.12 * Math.sin(Math.PI * e), tr = `rotateY(${(face ? a - 180 : a).toFixed(2)}deg) scale(${sc.toFixed(4)})`, sh = Math.abs(Math.sin(Math.PI * e));
+        d.style.display = face ? "none" : ""; l.style.display = face ? "" : "none"; d.style.transform = l.style.transform = tr; l.style.clipPath = "none"; fx.ctx.fillStyle = `rgba(0,0,0,${0.6 * sh})`; fx.ctx.fillRect(0, 0, W, H); return; }
+      d.style.display = l.style.display = ""; d.style.transform = l.style.transform = "none"; const r = e * R; l.style.clipPath = `circle(${r.toFixed(1)}px at ${og[0]}px ${og[1]}px)`;
+      if (p > 0 && p < 1) { const c = fx.ctx, gl = c.createRadialGradient(og[0], og[1], Math.max(0, r - 60), og[0], og[1], r + 40); gl.addColorStop(0, "rgba(255,255,255,0)"); gl.addColorStop(0.6, "rgba(255,240,220,.55)"); gl.addColorStop(1, "rgba(255,240,220,0)"); c.globalCompositeOperation = "lighter"; c.fillStyle = gl; c.fillRect(0, 0, W, H);
+        const rp = KF.ease.out(p) * R * 1.15; c.strokeStyle = `rgba(255,255,255,${0.35 * (1 - p)})`; c.lineWidth = 3; c.beginPath(); c.arc(og[0], og[1], rp, 0, 7); c.stroke(); c.globalCompositeOperation = "source-over"; } } };
 });

diff --git a/.claude/skills/speedy-explainer-reel/keyframes/stage-flip/demo.js b/.claude/skills/speedy-explainer-reel/keyframes/stage-flip/demo.js
@@ -1,3 +1,5 @@
-KF.demo({ name: "stage-flip", group: "E", line: "Dark to light: a new chapter, real screens", dur: 4, build(host) {
-  const f = KF.make("stage-flip", host, { origin: [540, 420] }), a = KF.make("article-card", host, { theme: "light", site: "anthropic.com", date: "9 Nov 2026", headline: "Introducing *Claude Fable 5.2*", lines: 5 }), tx = KF.el("div", "", host, "CHAPTER 2"); tx.style.cssText = "position:absolute;left:0;right:0;top:20px;text-align:center;font:800 30px 'JetBrains Mono',monospace;letter-spacing:6px";
-  return t => { const s = { p: KF.prog(t, 1.0, 0.8) }; f.frame(t, s); tx.style.color = f.isLight(s) ? "#16181d" : "#F3F1EC"; a.frame(t, { show: KF.prog(t, 1.4, 0.6), mark: KF.prog(t, 2.4, 0.8) }); }; } });
+KF.demo({ name: "stage-flip", group: "E", line: "Dark to light: a glowing circle, then a card turn", dur: 6, build(host) {
+  const f1 = KF.box(host, "left:0;top:0;width:1080px;height:1000px"), F1 = KF.make("stage-flip", f1, { origin: [540, 420] }), a = KF.make("article-card", host, { theme: "light", site: "anthropic.com", date: "9 Nov 2026", headline: "Introducing *Claude Fable 5.2*", lines: 5 });
+  const f2 = KF.box(host, "left:0;top:0;width:1080px;height:1000px"), F2 = KF.make("stage-flip", f2, { mode: "turn" }), tx = KF.el("div", "", host); tx.style.cssText = "position:absolute;left:0;right:0;top:20px;text-align:center;font:800 30px 'JetBrains Mono',monospace;letter-spacing:6px;z-index:5"; const fb = KF.box(host, "left:0;top:0;width:1080px;height:1000px"), fin = KF.make("finish", fb, {});
+  return t => { const one = t < 3, s1 = { p: KF.prog(t, 0.8, 1.0) }, s2 = { p: KF.prog(t, 3.6, 1.2) }; f1.style.display = one ? "" : "none"; f2.style.display = one ? "none" : ""; F1.frame(t, s1); F2.frame(t, s2); a.frame(t, { show: one ? KF.prog(t, 1.3, 0.6) : 0, mark: KF.prog(t, 2.0, 0.6) });
+    tx.textContent = one ? "circle" : "turn"; tx.style.color = (one ? F1.isLight(s1) : F2.isLight(s2)) ? "#16181d" : "#F3F1EC"; fin.frame(t, {}); }; } });

diff --git a/.claude/skills/speedy-explainer-reel/keyframes/code-reveal/demo.js b/.claude/skills/speedy-explainer-reel/keyframes/code-reveal/demo.js
@@ -1,3 +1,3 @@
-KF.demo({ name: "code-reveal", group: "E", line: "The picture dissolves into the code that draws it", dur: 5, build(host) {
-  const a = KF.box(host, "left:0;top:0;width:1080px;height:1000px"), st = KF.make("cutaway-stage", a, { hero: "finger" }), ar = KF.make("field-arcs", a, { y: 1000 * 0.62 + 63, n: 18, rise: 60 }), b = KF.box(host, "left:0;top:0;width:1080px;height:1000px"), cr = KF.make("code-reveal", b, {});
-  return t => { st.frame(t, { touch: 1 }); const tip = st.anchor("tip"); ar.frame(t, { power: 1, sink: { x: tip[0], y: tip[1] - 30, k: 1, r: 230 } }); cr.frame(t, { p: KF.ease.inOut(KF.prog(t, 0.8, 0.6)) * (1 - KF.ease.inOut(KF.prog(t, 3.8, 0.6))), type: KF.prog(t, 1.0, 2.4) }); }; } });
+KF.demo({ name: "code-reveal", group: "E", line: "The picture breaks into the code that draws it", dur: 6, build(host) {
+  const a = KF.box(host, "left:0;top:0;width:1080px;height:1000px"), st = KF.make("cutaway-stage", a, { hero: "finger" }), ar = KF.make("field-arcs", a, { y: 1000 * 0.62 + 63, n: 18, rise: 60 }), b = KF.box(host, "left:0;top:0;width:1080px;height:1000px"), cr = KF.make("code-reveal", b, {}); const fb = KF.box(host, "left:0;top:0;width:1080px;height:1000px"), fin = KF.make("finish", fb, {});
+  return t => { st.frame(t, { touch: 1 }); const tip = st.anchor("tip"); ar.frame(t, { power: 1, sink: { x: tip[0], y: tip[1] - 30, k: 1, r: 230 } }); cr.frame(t, { p: KF.ease.inOut(KF.prog(t, 0.6, 1.2)) * (1 - KF.ease.inOut(KF.prog(t, 4.8, 1.0))), type: KF.prog(t, 1.4, 3.0), scroll: 0 }); fin.frame(t, {}); }; } });

diff --git a/.claude/skills/speedy-explainer-reel/keyframes/light-wipe/demo.js b/.claude/skills/speedy-explainer-reel/keyframes/light-wipe/demo.js
@@ -1,3 +1,3 @@
-KF.demo({ name: "light-wipe", group: "E", line: "A glowing bar sweeps in the next scene", dur: 4, build(host) {
-  const a = KF.box(host, "left:0;top:0;width:1080px;height:1000px"), A = KF.make("point-cloud", a, {}), b = KF.box(host, "left:0;top:0;width:1080px;height:1000px;background:#0c0c0f"), B = KF.make("tile-map", b, { cols: 20, rows: 18, order: "center", colors: [KF.C.gold, KF.C.accent] }), c = KF.box(host, "left:0;top:0;width:1080px;height:1000px"), W = KF.make("light-wipe", c, {});
-  return t => { const p = KF.prog(t, 1.4, 0.9); A.frame(t, {}); B.frame(t, { fill: KF.prog(t, 1.8, 1.6) }); b.style.clipPath = `inset(0 ${Math.max(0, 1080 - W.edge(p)).toFixed(1)}px 0 0)`; W.frame(t, { p }); }; } });
+KF.demo({ name: "light-wipe", group: "E", line: "An anamorphic light streak wipes in the next scene", dur: 4.5, build(host) {
+  const a = KF.box(host, "left:0;top:0;width:1080px;height:1000px"), A = KF.make("point-cloud", a, {}), b = KF.box(host, "left:0;top:0;width:1080px;height:1000px;background:#0c0c0f"), B = KF.make("frame-wall", b, {}), c = KF.box(host, "left:0;top:0;width:1080px;height:1000px"), W = KF.make("light-wipe", c, {}); const fb = KF.box(host, "left:0;top:0;width:1080px;height:1000px"), fin = KF.make("finish", fb, {});
+  return t => { const p = KF.prog(t, 1.4, 1.1); A.frame(t, {}); B.frame(t, { fill: 1 }); b.style.clipPath = `inset(0 ${Math.max(0, 1080 - W.edge(p)).toFixed(1)}px 0 0)`; W.frame(t, { p }); fin.frame(t, {}); }; } });

diff --git a/.claude/skills/speedy-explainer-reel/keyframes/blade-cut/demo.js b/.claude/skills/speedy-explainer-reel/keyframes/blade-cut/demo.js
@@ -1,3 +1,3 @@
-KF.demo({ name: "blade-cut", group: "E", line: "Two blades cut a wide shot into a vertical clip", dur: 4, build(host) {
-  const b = KF.make("blade-cut", host, {}), cap = KF.el("div", "", b.center, "The first<br>three seconds"); cap.style.cssText = "position:absolute;left:6px;right:6px;bottom:20px;text-align:center;font:900 30px/1.1 Inter;color:#fff;text-shadow:0 3px 0 #000";
-  return t => { b.frame(t, { show: KF.prog(t, 0, 0.4), cut: KF.prog(t, 0.9, 0.5), fall: Math.max(0, t - 1.5), grow: KF.prog(t, 1.7, 0.7) }); cap.style.opacity = KF.prog(t, 2.3, 0.3); }; } });
+KF.demo({ name: "blade-cut", group: "E", line: "Steel blades slice a wide shot into a vertical clip", dur: 5, build(host) {
+  const b = KF.make("blade-cut", host, { bg: `url(${KF.asset("covers/c01.jpg")}) center/cover` }), cap = KF.el("div", "", b.center, "1 video →<br>a stack of Shorts"); cap.style.cssText = "position:absolute;left:6px;right:6px;bottom:22px;text-align:center;font:900 30px/1.1 Inter;color:#fff;text-shadow:0 3px 0 #000"; const fb = KF.box(host, "left:0;top:0;width:1080px;height:1000px"), fin = KF.make("finish", fb, {});
+  return t => { b.frame(t, { show: KF.prog(t, 0, 0.4), cut: KF.prog(t, 0.9, 0.55), fall: Math.max(0, t - 1.55), grow: KF.prog(t, 1.8, 0.9) }); cap.style.opacity = KF.prog(t, 2.6, 0.3); fin.frame(t, {}); }; } });

diff --git a/.claude/skills/speedy-explainer-reel/keyframes/clip-stack/demo.js b/.claude/skills/speedy-explainer-reel/keyframes/clip-stack/demo.js
@@ -1,2 +1,3 @@
-KF.demo({ name: "clip-stack", group: "E", line: "Clips fan out, then drop onto one stack", dur: 4, build(host) {
-  const c = KF.make("clip-stack", host, { captions: ["I automated<br>my YouTube", "The whole<br>channel?", "The first<br>three seconds", "Claude picks<br>the moments", "A whole<br>stack"] }); return t => c.frame(t, { fan: KF.prog(t, 0.2, 1.6), stack: KF.prog(t, 2.6, 0.7) }); } });
+KF.demo({ name: "clip-stack", group: "E", line: "Real clips fan out in 3D, then drop onto one stack", dur: 5, build(host) {
+  const c = KF.make("clip-stack", host, {}); const fb = KF.box(host, "left:0;top:0;width:1080px;height:1000px"), fin = KF.make("finish", fb, {});
+  return t => { c.frame(t, { fan: KF.prog(t, 0.2, 1.9), stack: KF.prog(t, 3.0, 1.2) }); fin.frame(t, {}); }; } });

diff --git a/.claude/skills/speedy-explainer-reel/keyframes/film-strip/demo.js b/.claude/skills/speedy-explainer-reel/keyframes/film-strip/demo.js
@@ -1,1 +1,2 @@
-KF.demo({ name: "film-strip", group: "E", line: "A long video under a playhead; the best moments light up", dur: 5, build(host) { const f = KF.make("film-strip", host, {}); return t => f.frame(t, { show: KF.prog(t, 0, 0.4), scroll: KF.prog(t, 0.4, 3.2) * 0.86, lift: KF.ease.out(KF.prog(t, 3.8, 0.6)) }); } });
+KF.demo({ name: "film-strip", group: "E", line: "Real film runs under a playhead; the best moments lift out", dur: 6, build(host) { const f = KF.make("film-strip", host, {}); const fb = KF.box(host, "left:0;top:0;width:1080px;height:1000px"), fin = KF.make("finish", fb, {});
+  return t => { f.frame(t, { show: KF.prog(t, 0, 0.4), scroll: KF.prog(t, 0.4, 3.8) * 0.66, lift: KF.ease.out(KF.prog(t, 4.4, 0.7)) }); fin.frame(t, {}); }; } });
